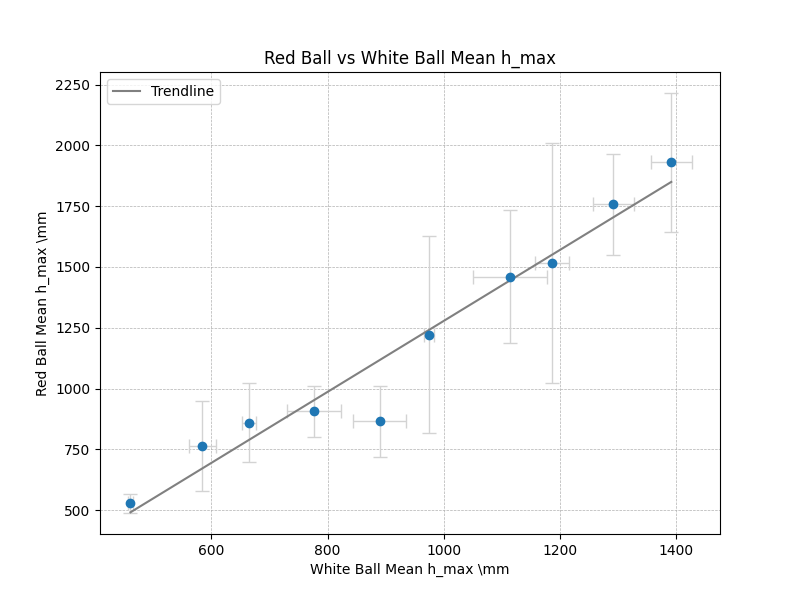
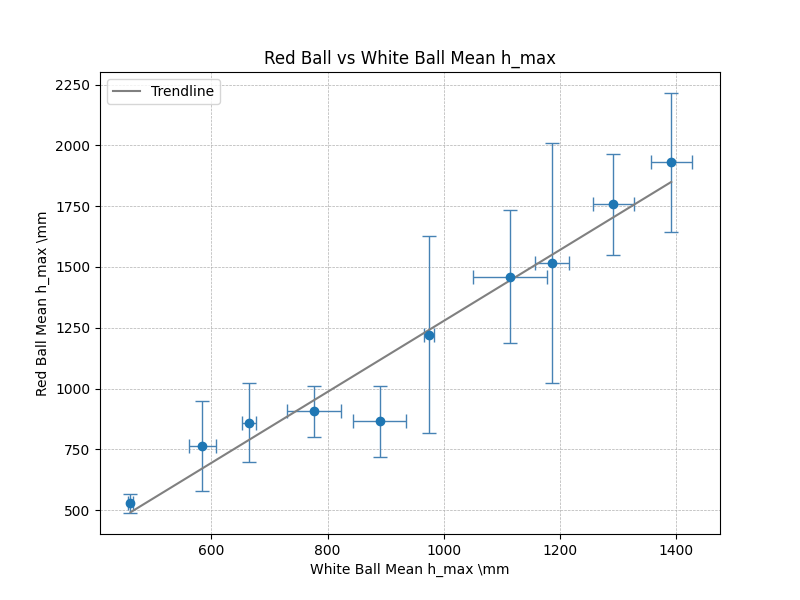
Changed colour of error bars on final graph

diff --git a/other_data/final_graph.py b/other_data/final_graph.py
@@ -17,9 +17,14 @@ def create_scatter_plot(csv_file):
 
     slope, intercept, r_value, p_value, std_err = stats.linregress(white_mean_h_max, red_mean_h_max)
     
+    # Calculate the trendline
     trendline_y = slope * white_mean_h_max + intercept
 
+    # Calculate R-squared value
+    r_squared = r_value**2
+
     print(f"Trendline equation: y = {slope:.4f}x + {intercept:.4f}")
+    print(f"R-squared: {r_squared:.4f}")
 
     plt.figure(figsize=(8, 6))
     
@@ -27,7 +32,7 @@ def create_scatter_plot(csv_file):
 
     plt.errorbar(white_mean_h_max, red_mean_h_max, 
                  xerr=white_uncertainty, yerr=red_uncertainty, 
-                 fmt='o', ecolor='lightgray', linestyle='None', capsize=5, elinewidth=1)
+                 fmt='o', ecolor='steelblue', linestyle='None', capsize=5, elinewidth=1)
 
     plt.plot(white_mean_h_max, trendline_y, color='gray', linestyle='-', linewidth=1.5, label='Trendline')
 
